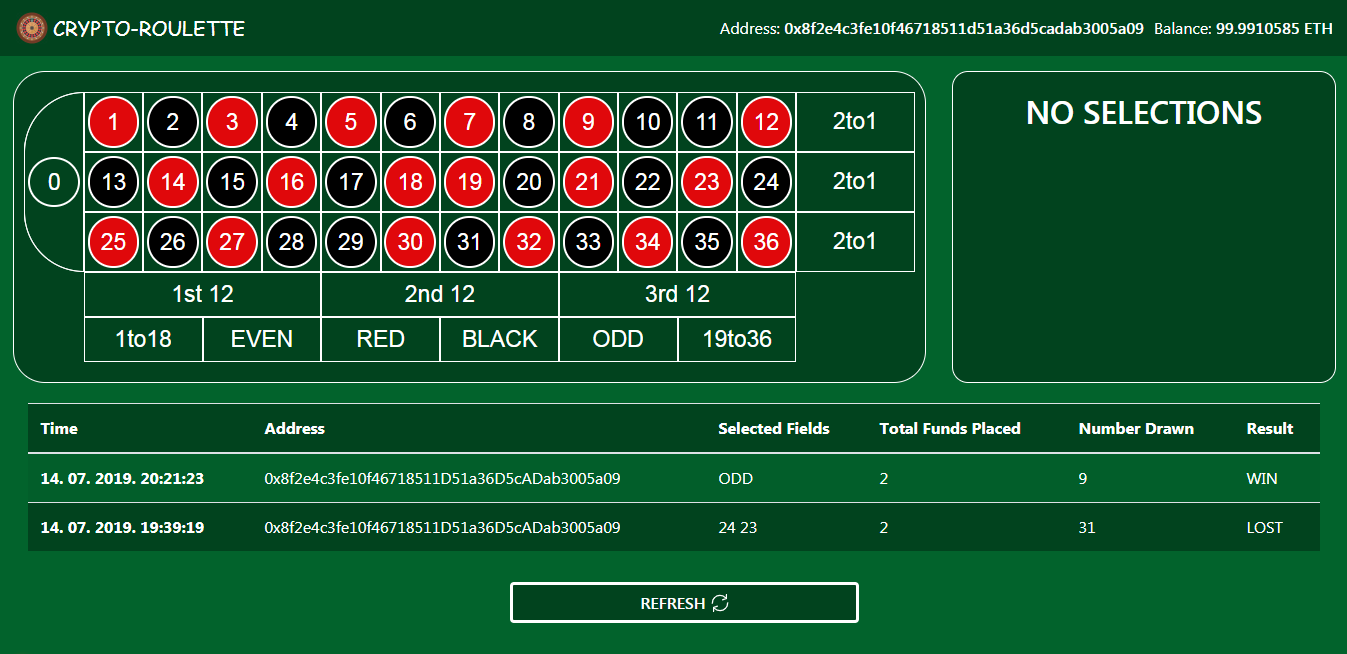
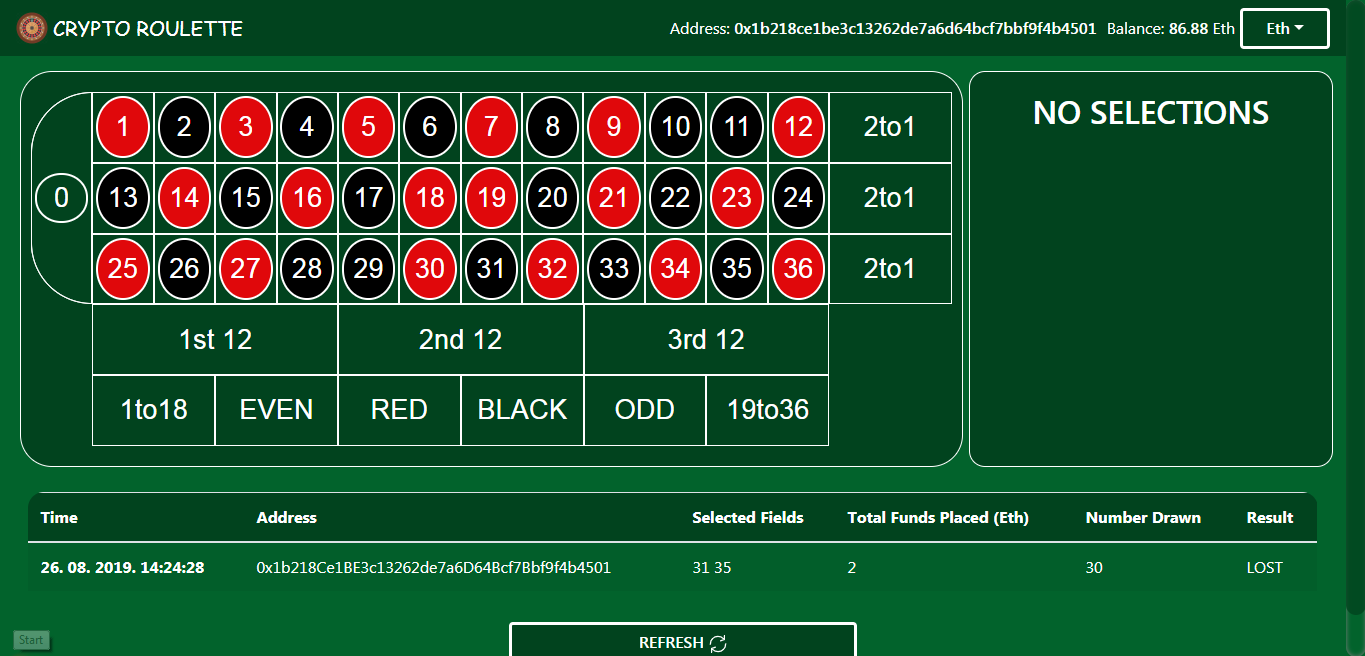
small updates

diff --git a/app/src/components/app.js b/app/src/components/app.js
@@ -1,7 +1,7 @@
-import React, { useEffect, useState } from "react";
+import React, { useEffect, useState, useCallback } from "react";
 import Web3Wrapper from '../utilities/web3Wrapper';
 import Header from './header/header';
-import BoardBase from './board/boardBase';
+import Board from './board/board';
 import Result from './portal/result/result';
 
 import { AppState, Units } from '../common/enums'; 
@@ -16,10 +16,10 @@ export default function App() {
     const [web3Wrapper, setWeb3Wrapper] = useState(undefined);
     const [selectedUnit, changeSelectedUnit] = useState(Units.Ether);
 
-    const refreshAllData = async () => {
+    const refreshAllData = useCallback(async () => {
         getUserBalance();
         await getLastSpins();
-    }
+    });
 
     useEffect(() => {
         if(web3Wrapper){
@@ -55,7 +55,7 @@ export default function App() {
 
     const [isPortalOpen, changePortalState] = useState(false); 
     const [portalContent, setPortalContent] = useState(null);
-    const eventCallBack = async (err, ev) => {
+    const eventCallBack = useCallback (async (err, ev) => {
         if(err){
             console.log(err);
         }
@@ -67,13 +67,13 @@ export default function App() {
             setPortalContent(<Result lastSpin={refreshedLastSpins[0]} />);
             changePortalState(true);
         }  
-    }
+    });
 
     const [selectedIDs, setSelectedIDs] = useState([]);
     const [amounts, setAmounts] = useState([]);
     const [warningAnimation, showWarningAnimation] = useState(false);
     
-    const onSelection = (newID) => {
+    const onSelection = useCallback((newID) => {
         if(!selectedIDs.includes(newID) && selectedIDs.length < 4){
             setSelectedIDs([...selectedIDs, newID]);
             setAmounts([...amounts, 1]);          
@@ -81,42 +81,38 @@ export default function App() {
         if(selectedIDs.length == 4){
             showWarningAnimation(true);
         }
-    }
-    const updateSpinAmounts = (newAmount, index) => {
+    });
+    const updateSpinAmounts = useCallback((newAmount, index) => {
         amounts[index] = newAmount;
         setAmounts([...amounts]);
-    }
-    const removeSelection = (index) => {
+    });
+    const removeSelection = useCallback((index) => {
         amounts.splice(index, 1);
         selectedIDs.splice(index, 1);
         setAmounts([...amounts]);
         setSelectedIDs([...selectedIDs]);
-    }
+    });
 
     const [spinAnimation, showSpinAnimation] = useState(false);
-    const showAnimation = () => {
-        showSpinAnimation(true);
-    }
-    const endAnimation = () => {
-        showSpinAnimation(false);
-    }
+    const showAnimation = useCallback(() => { showSpinAnimation(true); })
+    const endAnimation = useCallback(() => { showSpinAnimation(false); })
 
-    const spinWheel = () => {
+    const spinWheel = useCallback(() => {
         setAmounts([]);
         setSelectedIDs([]);
         web3Wrapper._placeBet(selectedIDs, amounts, showAnimation);
-    }
+    });
 
     const [lastSpins, setLastSpins] = useState([]);
-    const getLastSpins = async () => {
+    const getLastSpins = useCallback(async () => {
         getUserBalance();
         return await web3Wrapper._getLastSpins().then(setLastSpins).catch(console.error);
-    }
+    });
 
     const [userBalance, setUserBalance] = useState(0);
-    const getUserBalance = () => {
+    const getUserBalance = useCallback(() => {
         web3Wrapper._getCurrentUserBalance().then(setUserBalance).catch(console.error);
-    }
+    });
 
     return(
         <div className="app">
@@ -128,14 +124,15 @@ export default function App() {
                         getUserBalance={getUserBalance} 
                         selectedUnit={selectedUnit}
                         changeSelectedUnit={changeSelectedUnit}
-                        spinAnimation={spinAnimation}
+                        shouldShowSpinAnimation={spinAnimation}
                         endAnimation={endAnimation}
                         showAnimation={showAnimation}
                     />
+                    <div className="not-supported-message">Application is not supported for mobile devices</div>
                     <div className="app-body">
                     {appState == AppState.SuccessfulInitialization ?  
                     <>                 
-                        <BoardBase 
+                        <Board 
                             onSelection={onSelection}
                         />
                         <CurrentBetDashboard 

diff --git a/app/src/utilities/web3Wrapper.js b/app/src/utilities/web3Wrapper.js
@@ -8,7 +8,6 @@ export default class Web3Wrapper {
         this._contract;
         this._web3;
         this._userAddress;
-        this._userBalance;
         this._isUserContractOwner;
         this._selectedUnit;
     }
@@ -21,11 +20,11 @@ export default class Web3Wrapper {
                 await window.ethereum.enable();
             } catch (e) {
                 // user denied premissions
-                return { success: false, errorMessage: e.message };
-            }
-
-            if(window.ethereum.networkVersion != "3" && !appSettings._isDevelopment) {
-                return { success: false, errorMessage: "Select Ropsten testnet in Metamask menu or application wont  work" };
+                return { success: false, errorMessage: JSON.stringify(e) };
+            } finally {
+                if(window.ethereum.networkVersion != "3" && !appSettings._isDevelopment) {
+                    return { success: false, errorMessage: `Select Ropsten testnet in Metamask menu or application wont work, ${JSON.stringify(window.ethereum)}` };
+                }
             }
             
             this._web3 = new Web3(window.ethereum);
@@ -73,7 +72,7 @@ export default class Web3Wrapper {
         
         const pricesFetch = await EthereumValueFetcher._refreshEthereumPrice();
         if(!pricesFetch.success){
-            return prices;
+            return pricesFetch;
         }
 
         this._selectedUnit = selectedUnit;

diff --git a/app/src/components/header/unitsDropdown/unitsDropdown.js b/app/src/components/header/unitsDropdown/unitsDropdown.js
@@ -1,4 +1,4 @@
-import React, {useState, useEffect, useRef} from "react";
+import React, {useState, useEffect, useRef, useCallback} from "react";
 import { Units } from "../../../common/enums";
 
 import "./unitsDropdown.scss";
@@ -6,13 +6,13 @@ import "./unitsDropdown.scss";
 function OusideClickHandler(props) {
     const wrapperRef = useRef(null);
 
-    const handleClick = (e) => {
+    const handleClick = useCallback((e) => {
         if(wrapperRef.current && !wrapperRef.current.contains(e.target)){
             props.onOutsideClick();
         }
 
         document.removeEventListener("mousedown", handleClick);
-    }
+    })
 
     useEffect(() => {
         if(props.shouldAddEvenetListener){
@@ -36,10 +36,10 @@ export default function UnitsDropdown(props) {
     const [isMenuOpen, openMenu] = useState(false);
     const dropdownRef = useRef(null);
 
-    const handleUnitClick = (unit) => {
+    const handleUnitClick = useCallback((unit) => {
         props.changeSelectedUnit(unit);
         openMenu(false);
-    }
+    });
 
     return(
         <OusideClickHandler 

diff --git a/app/src/index.scss b/app/src/index.scss
@@ -4,7 +4,8 @@ html, body, #root {
     height: 100%; 
     width: 100%; 
     margin: 0; 
-    min-width: 820px !important;
+    background-color: $light-green;
+    color: $white;
 }
 
 :root {
@@ -20,4 +21,32 @@ html, body, #root {
     @include color-shades($light-green, light-green);
     @include color-shades($dark-green, dark-green);
 
+    // custom scroll https://css-tricks.com/almanac/properties/s/scrollbar/
+    // 1. scroll u globalu
+    *::-webkit-scrollbar{
+        width: 20px;
+        background-color: $light-green;
+    }
+
+    // 2. scroll traka
+    *::-webkit-scrollbar-track{
+        box-shadow: inset 0 0 5px gray; 
+        border-radius: 10px;
+    }
+
+    // 3. scroll thumb
+    *::-webkit-scrollbar-thumb{
+        background: var(--dark-green-80); 
+        border-radius: 10px;
+    }
+
+    // 4. donji lijevi ugao di se trake nalaze 
+    *::-webkit-scrollbar-corner{
+        display: none;
+    }
+
+    *::-webkit-scrollbar-thumb:hover{
+        background: var(--dark-green-80); 
+        box-shadow: 0 0 10px var(--dark-green-80);
+    }
 }

diff --git a/app/src/components/app.scss b/app/src/components/app.scss
@@ -6,12 +6,10 @@
         position: relative;
         top: 56px;
         padding: 15px 1%;
-        background-color: $light-green;
         min-width: 100%;
         width: fit-content;
         margin: 0 !important;
         max-width: 100% !important;
-        color: $white;
         height: fit-content;
         min-height: calc(100% - 56px);
     
@@ -19,6 +17,10 @@
         flex-wrap: wrap;
         justify-content: space-between;
         align-content: flex-start;
+
+        @media (max-width: $mobile-resolution-breakpoint){
+            display: none;
+        }
     }
     
     .row{
@@ -47,6 +49,19 @@
     .close{
         span{
             color: $white;
+        }
+    }
+
+    .not-supported-message{
+        display: none;
+
+        @media (max-width: $mobile-resolution-breakpoint){
+            display: block;
+            position: fixed;
+            top: 56px;
+            padding: 10px;
+            font-size: 24px;
+            font-weight: 480;
         }
     }
 }

diff --git a/app/src/components/previosBetDashboard/previousBetDashboard.scss b/app/src/components/previosBetDashboard/previousBetDashboard.scss
@@ -44,33 +44,4 @@
             max-height: 800px;
         }
     }
-
-    // custom scroll https://css-tricks.com/almanac/properties/s/scrollbar/
-    // 1. scroll u globalu
-    .table-holder::-webkit-scrollbar{
-        width: 20px;
-    }
-
-    // 2. scroll traka
-    .table-holder::-webkit-scrollbar-track{
-        box-shadow: inset 0 0 5px grey; 
-        background-color: $light-green;
-        border-radius: 10px;
-    }
-
-    // 3. scroll thumb
-    .table-holder::-webkit-scrollbar-thumb{
-        background: var(--dark-green-80); 
-        border-radius: 10px;
-    }
-
-    // 4. donji lijevi ugao di se trake nalaze 
-    .table-holder::-webkit-scrollbar-corner{
-        display: none;
-    }
-
-    .table-holder::-webkit-scrollbar-thumb:hover{
-        background: var(--dark-green-80); 
-        box-shadow: 0 0 10px var(--dark-green-80);
-    }
 }

diff --git a/app/src/utilities/ethereumValueFetcher.js b/app/src/utilities/ethereumValueFetcher.js
@@ -4,10 +4,10 @@ class EthereumValueFetcher {
     }
 
     async _refreshEthereumPrice() {
-        const priceResponse = await fetch("https://min-api.cryptocompare.com/data/price?fsym=ETH&tsyms=BTC,USD,EUR");
+        const priceResponse = await fetch("https://min-api.cryptocompare.com/data/price?fsym=ETH&tsyms=HRK,USD,EUR");
         const prices = await priceResponse.json();
-        if(prices.Response == "Error"){
-            return { success: false, errorMessage: "EthereumValueFetcher: " + prices.Message };
+        if(!prices.HRK || !prices.USD || !prices.EUR){
+            return { success: false, errorMessage: "EthereumValueFetcher: " + JSON.stringify(prices) };
         }
 
         this._prices = prices;

diff --git a/app/src/components/header/header.js b/app/src/components/header/header.js
@@ -8,8 +8,8 @@ import UnitsDropdown from "./unitsDropdown/unitsDropdown";
 export default function Header(props) {
     let className = "logo-image";
     let appNameClassName = "app-name";
-    className += props.spinAnimation ? ' show-animation ' : '';
-    appNameClassName += props.spinAnimation ? ' offset' : '';
+    className += props.shouldShowSpinAnimation ? ' show-animation ' : '';
+    appNameClassName += props.shouldShowSpinAnimation ? ' offset' : '';
     return (
         <div className="navbar navbar-expand-lg navbar-light">
             <a className="navbar-brand mr-auto flex-fill">

diff --git a/app/src/components/board/board.js b/app/src/components/board/board.js
@@ -1,6 +1,6 @@
 import React from "react";
 
-import './boardBase.scss';
+import './board.scss';
 import appSettings from "../../utilities/appSettings";
 
 function Number(props) {
@@ -12,7 +12,7 @@ function Number(props) {
     );
 }
     
-export default function BoardBase(props) {
+export default function Board(props) {
     const renderFields = (field) => {
         switch(field.id) {
             case 0:

diff --git a/app/src/components/board/board.scss b/app/src/components/board/board.scss
@@ -10,7 +10,7 @@
     border-radius: 32px;
     padding: 20px 10px;
     height: fit-content;
-    font: 23px Arial, sans-serif;
+    font: 2vw Arial, sans-serif;
     background-color: $dark-green;
     border-color: $white;
     color: $white;

diff --git a/app/src/components/header/header.scss b/app/src/components/header/header.scss
@@ -9,6 +9,10 @@
     flex-wrap: wrap;
     width: fit-content;
     justify-content: flex-end;
+
+    @media (max-width: $mobile-resolution-breakpoint){
+        display: none;
+    }
      
     .address, .balance {
         font-weight: 550;

diff --git a/app/src/common/_styleAssets.scss b/app/src/common/_styleAssets.scss
@@ -1,5 +1,7 @@
 $screen-resolution-breakpoint: 1050px;
 
+$mobile-resolution-breakpoint: 700px;
+
 $blue: #25a7ef;
 $green: #70aa2e;
 $yellow: #f9cb3a;
